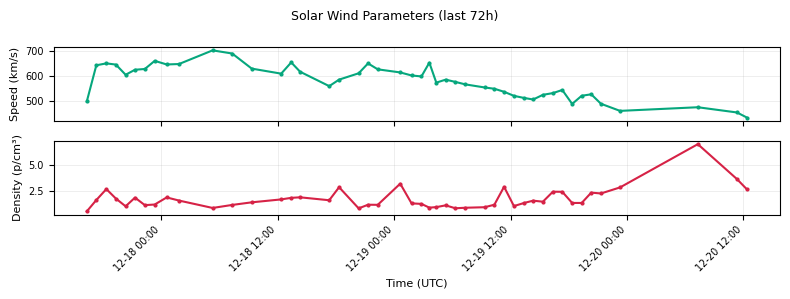
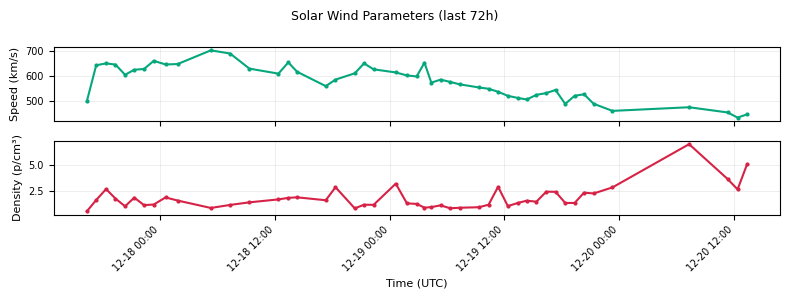
Vault Narrator: Auto-update 2025-12-20 14:04 UTC

diff --git a/LATEST_VAULT_STATUS.md b/LATEST_VAULT_STATUS.md
@@ -1,6 +1,6 @@
 # 🔐 VAULT STATUS REPORT
 
-**Generated:** 2025-12-20 13:11 UTC  
+**Generated:** 2025-12-20 14:04 UTC  
 **Data Source:** `data/cme_heartbeat_log_2025_12.csv`
 
 ---
@@ -11,14 +11,14 @@
 **Last Lock Timestamp:** 2025-12-20 04:20:00 UTC  
 
 **Latest Solar Wind Conditions:**  
-- Density: 2.63 p/cm³  
-- Speed: 436.2 km/s  
+- Density: 5.02 p/cm³  
+- Speed: 448.9 km/s  
 
 ---
 
 ## 🌞 NOAA SPACE WEATHER SUMMARIES
 
-- [SRS Report](reports/latest_srs.md) (fetched: 2025-12-20 13:11 UTC)  
+- [SRS Report](reports/latest_srs.md) (fetched: 2025-12-20 14:04 UTC)  
 - F10.7 Report: *not available*  
 
 ---
@@ -39,7 +39,6 @@
 
 | Time (UTC)          | χ Amplitude | Density (p/cm³) | Speed (km/s) | χ Status |
 |---------------------|-------------|-----------------|--------------|----------|
-| 2025-12-19 12:21:00 | 0.1500 | 1.03 | 522.4 | ✅ LOCK |
 | 2025-12-19 13:24:00 | 0.1500 | 1.33 | 514.0 | ✅ LOCK |
 | 2025-12-19 14:20:00 | 0.1500 | 1.55 | 507.9 | ✅ LOCK |
 | 2025-12-19 15:20:00 | 0.1500 | 1.45 | 526.4 | ✅ LOCK |
@@ -59,6 +58,7 @@
 | 2025-12-20 07:18:00 | 0.1372 | 6.97 | 477.2 | — |
 | 2025-12-20 11:20:00 | 0.1245 | 3.62 | 456.5 | — |
 | 2025-12-20 12:22:00 | 0.1201 | 2.63 | 436.2 | — |
+| 2025-12-20 13:21:00 | 0.0760 | 5.02 | 448.9 | — |
 
 ---
 
